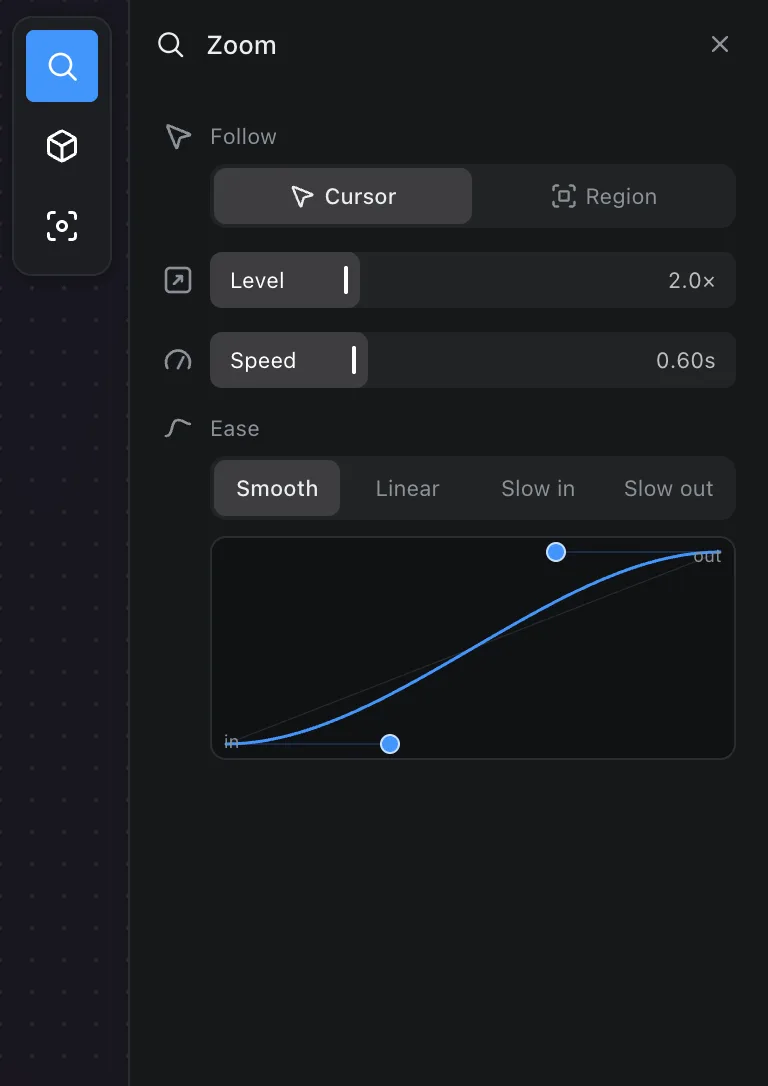
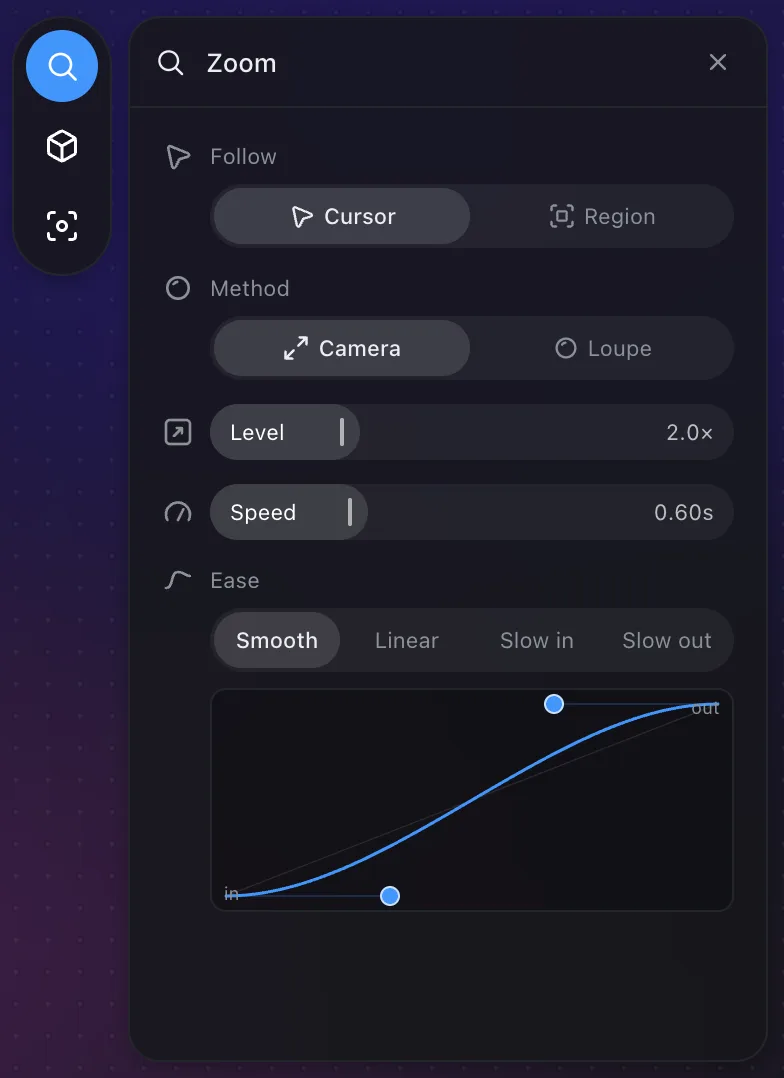
Document the loupe, and draft the release it ships in

diff --git a/apps/desktop/gallery/shots.tsx b/apps/desktop/gallery/shots.tsx
@@ -490,6 +490,46 @@ export const SHOTS: readonly Shot[] = [
     steps: [...EDITOR_READY, { kind: "key", code: "KeyZ" }, { kind: "settle", ms: 400 }],
     clip: "[data-panel='inspector']",
   },
+  // The lens itself, on the real composition — and the only shot that reaches
+  // the loupe's WebGL branch at all.
+  //
+  // It earns its place the way `filter-applied` does: the pixel tests prove the
+  // *exporter* draws the glass, and the shader-mirror test proves the two
+  // refractions are the same arithmetic. Neither of them compiles the GLSL. A
+  // preview whose shader will not compile draws nothing whatsoever, logs once,
+  // and passes every other check in this repo.
+  //
+  // The whole frame rather than the panel: the point is the glass on the
+  // picture, not the controls that chose it.
+  {
+    id: "loupe-applied",
+    frame: "workspace",
+    install: install(),
+    render: () => <EditorRoute name={recording} />,
+    steps: [
+      ...EDITOR_READY,
+      { kind: "key", code: "KeyZ" },
+      { kind: "click", selector: 'button[aria-label="Loupe"]' },
+      // Past the write, the plan rebuild and a draw or two.
+      { kind: "settle", ms: 900 },
+    ],
+    clip: "frame",
+  },
+  // The lens's own controls, which only exist under Loupe.
+  {
+    id: "inspector-glass",
+    frame: "workspace",
+    install: install(),
+    render: () => <EditorRoute name={recording} />,
+    steps: [
+      ...EDITOR_READY,
+      { kind: "key", code: "KeyZ" },
+      { kind: "click", selector: 'button[aria-label="Loupe"]' },
+      { kind: "click", selector: 'button[aria-label="Glass"]' },
+      { kind: "settle", ms: 400 },
+    ],
+    clip: "[data-panel='inspector']",
+  },
   {
     id: "inspector-angle",
     frame: "workspace",

diff --git a/apps/web/src/content/changelog.ts b/apps/web/src/content/changelog.ts
@@ -21,6 +21,7 @@
  * edited in: a release is added at the top, with its `.mdx` beside it.
  */
 export const RELEASES = [
+  "0.0.35",
   "0.0.34",
   "0.0.33",
   "0.0.32",
